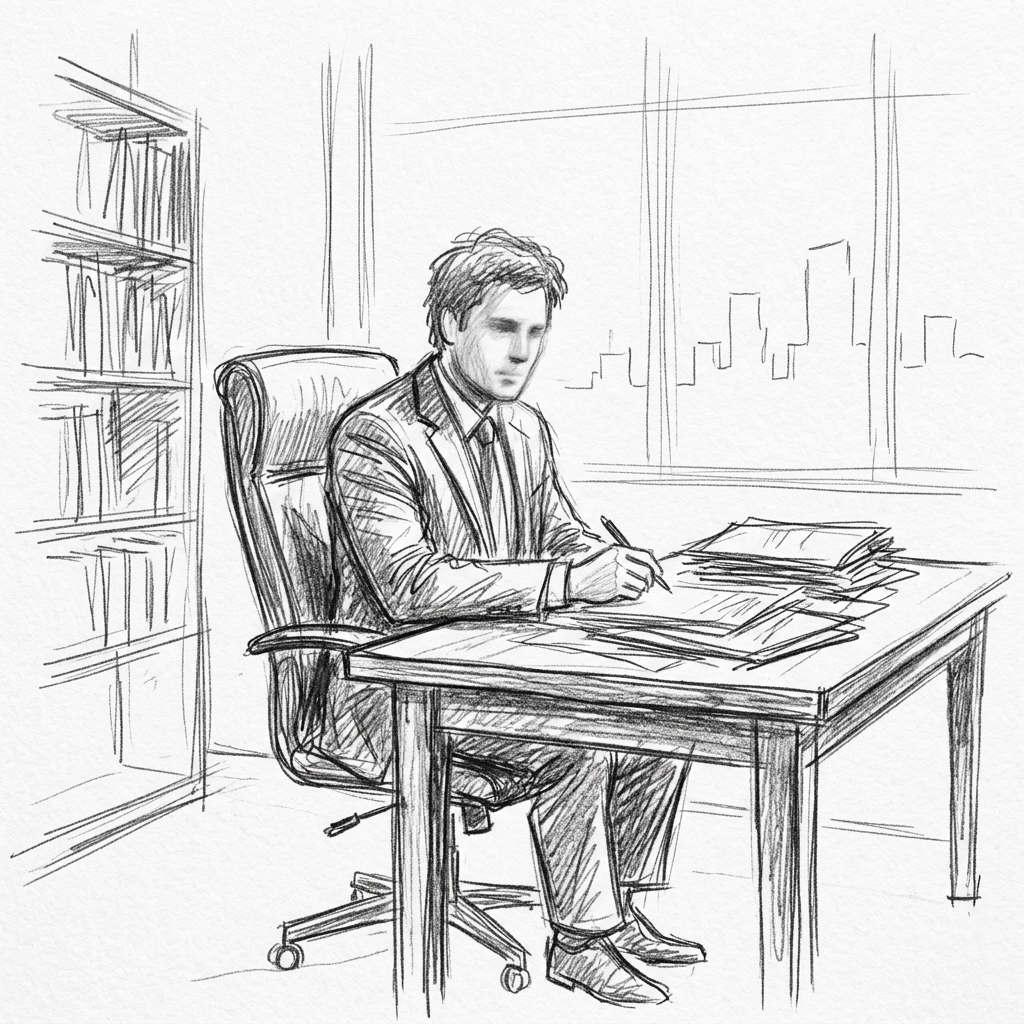
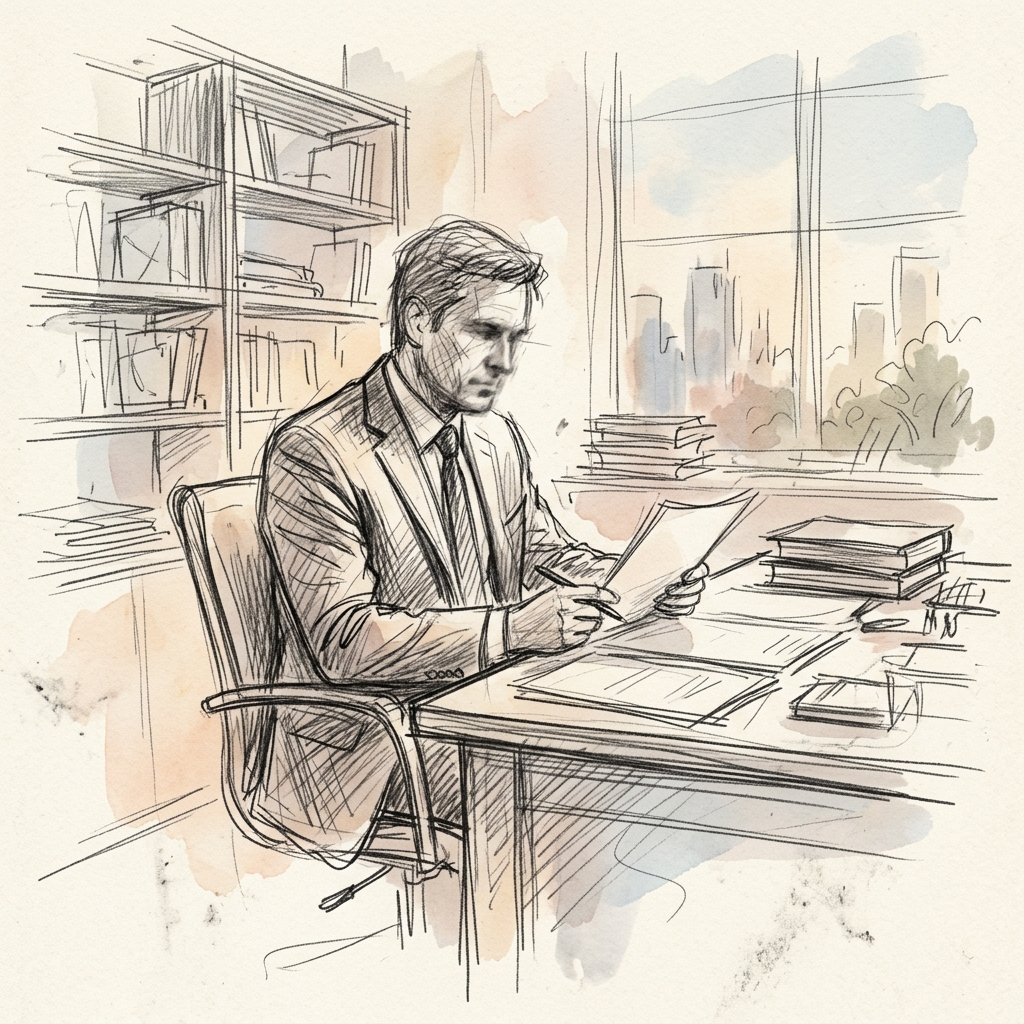
style(intro): remove text overlay and apply pastel tint to profile sketch

diff --git a/src/app/intro/greeting/page.tsx b/src/app/intro/greeting/page.tsx
@@ -62,7 +62,7 @@ export default function GreetingPage() {
             animate="animate"
           >
             <div className="relative aspect-[3/4] rounded-2xl overflow-hidden shadow-2xl border-b-8 border-r-8 border-[#A67C52]/20">
-              <div className="absolute inset-0 bg-gradient-to-t from-[var(--primary)]/60 via-transparent to-transparent z-10 pointer-events-none"></div>
+              <div className="absolute inset-0 bg-gradient-to-t from-[var(--primary)]/20 via-transparent to-transparent z-10 pointer-events-none"></div>
               <Image 
                 src="/images/lawyer_profile_sketch.png" 
                 alt="법무사 김형근 프로필 스케치" 
@@ -71,10 +71,6 @@ export default function GreetingPage() {
                 sizes="(max-width: 1024px) 100vw, 40vw"
                 priority
               />
-              <div className="absolute bottom-6 left-6 z-20 select-none">
-                <p className="text-white text-xl font-bold tracking-wider mb-1 drop-shadow-md">법무사 김형근</p>
-                <p className="text-white/80 text-xs uppercase tracking-widest font-semibold drop-shadow-md">대표 법무사</p>
-              </div>
             </div>
             {/* Decoration */}
             <div className="absolute -z-10 -bottom-6 -left-6 w-full h-full bg-[#A67C52]/5 rounded-2xl"></div>